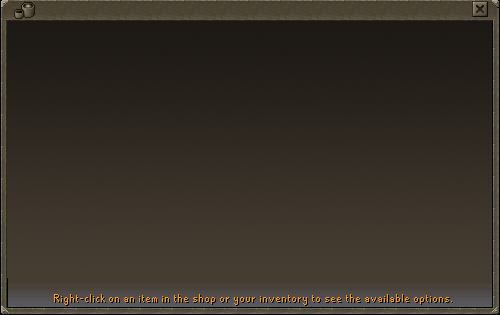
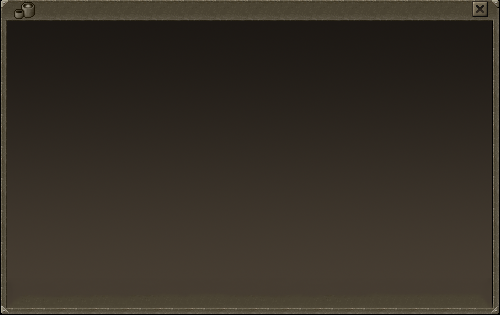
Even more generalized window UI

Changed region(s): [[0.0, 0.9143, 0.99, 1.0]]

diff --git a/GRPG/UI.cpp b/GRPG/UI.cpp
@@ -21,6 +21,7 @@ UI::UI() : Entity()
 	tabTexture = new TextureManager();
 	uiImgTexture = new TextureManager();
 	windowTexture = new TextureManager();
+	shopTexture = new TextureManager();
 	activeTab = uiNS::SKILLS;
 
 	//Not visible till you right click
@@ -38,6 +39,7 @@ UI::~UI()
 	SAFE_DELETE(uiImgTexture);
 	SAFE_DELETE(windowTexture);
 	SAFE_DELETE(shopRect);
+	SAFE_DELETE(shopTexture);
 
 	delete coin;
 }
@@ -68,6 +70,10 @@ bool UI::initialize(Game* gamePtr, Player* p, Input *in)
 		throw(GameError(gameErrorNS::FATAL_ERROR, "Error initalizing window texture"));
 	if (!windowImage.initialize(graphics, 0, 0, 1, windowTexture, true))
 		throw(GameError(gameErrorNS::FATAL_ERROR, "Window image could not be initalized"));
+	if (!shopTexture->initialize(graphics, SHOP_IMAGE))
+		throw(GameError(gameErrorNS::FATAL_ERROR, "Error initalizing Shop Note Texture"));
+	if (!shopImage.initialize(graphics, 0, 0, 1, shopTexture, true))
+		throw(GameError(gameErrorNS::FATAL_ERROR, "Shop Image could not be initalized"));	
 
 	//Initalize the shop rectangle that will be used to draw the text at the top of the shop interface
 	windowImage.setX(GAME_WIDTH / 2);
@@ -230,6 +236,13 @@ void UI::draw(Viewport* viewport)
 		//Draw shop items, if any
 		if (items.size() > 0)
 		{
+			//Draw the text at the bottom first
+			VECTOR2 shopNoteLocation = VECTOR2(windowImage.getX(),
+				windowImage.getY() + windowImage.getHeight() / 2 - uiNS::windowBottomBorder - shopImage.getHeight()/2);
+			shopImage.setX(shopNoteLocation.x);
+			shopImage.setY(shopNoteLocation.y);
+			shopImage.draw();
+
 			VECTOR2 coordinates = VECTOR2(windowImage.getX() - windowImage.getWidth() / 2 + uiNS::shopLMargin,
 										windowImage.getY() - windowImage.getHeight() / 2 + uiNS::shopTMargin);
 			coordinates += VECTOR2(itemNS::spriteHeight / 2, itemNS::spriteWidth / 2);

diff --git a/GRPG/UI.h b/GRPG/UI.h
@@ -48,6 +48,9 @@ namespace uiNS
 	// of the window texture
 	const UINT windowXWidth = 28;
 	const UINT windowXHeight = 17;
+	//The border of the window
+	const int windowLeftBorder = 6;
+	const int windowBottomBorder = 7;
 
 	//Coordindates for shop
 	const int shopColMax = 12;
@@ -107,6 +110,8 @@ private:
 	RECT* shopRect; // The rectangle used for drawing the shop text
 	vector<Entity* > items; //The list of items that will be sold in the shop
 	Entity* coin;		//Track player's coin and perform changes
+	TextureManager* shopTexture;
+	Image shopImage;
 	
 protected:
 	//Draws the specified tab number onto the screen on the correct location

diff --git a/GRPG/constants.h b/GRPG/constants.h
@@ -57,6 +57,7 @@ const char TAB_IMAGE[] = "assets/ui/tabs.png"; //UI tabs texture
 const char HIT_IMAGE[] = "assets/ui/hit.png"; //Hit splat hit texture
 const char MISS_IMAGE[] = "assets/ui/miss.png"; //Hit splat miss texture
 const char WINDOW_IMAGE[] = "assets/ui/windowBackground.png"; // Window background texture
+const char SHOP_IMAGE[] = "assets/ui/shopNote.png"; // Window background texture
 const char FISHING_IMAGE[] = "assets/actions/fishing.png"; //The image shown above the player on fishing
 
 // key mappings

diff --git a/GRPG/Quest.h b/GRPG/Quest.h
@@ -13,7 +13,7 @@ namespace QuestNS{
 	const float MARGIN = 5;
 	const float WIDTH = 40;
 	const float HEIGHT = 20;
-	const DWORD BACK_COLOR = SETCOLOR_ARGB(255, 180, 180, 180);
+	const DWORD BACK_COLOR = graphicsNS::BLUE;
 
 }
 
